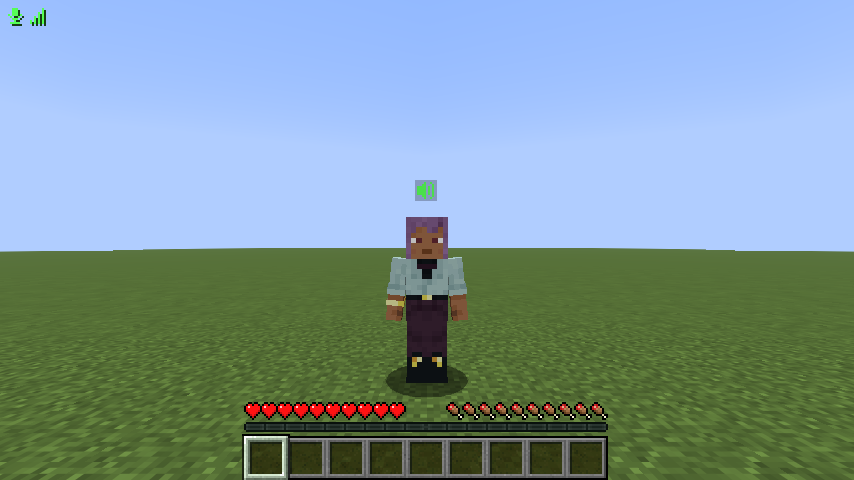
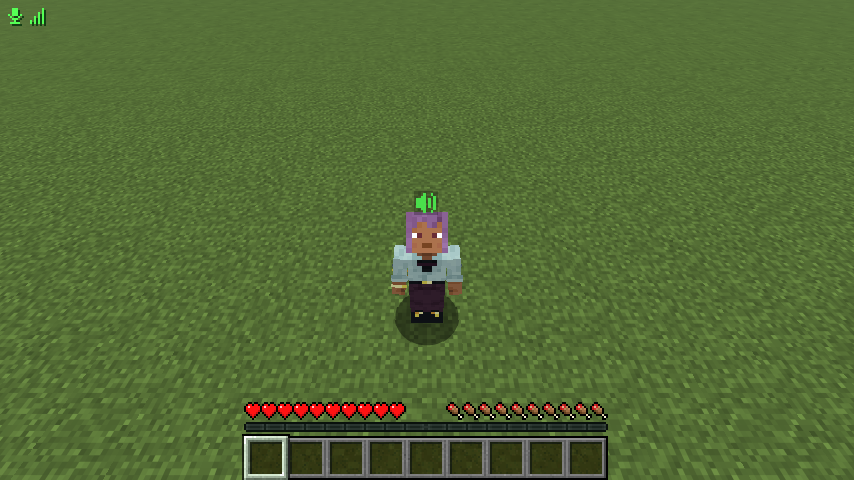
Keep the horizon out of the talking-indicator screenshot
On CI fewer distant chunks had loaded when the screenshot was taken, so
the edge of the terrain differed from a local run by 10,000 pixels. The
camera now looks down at the player from above, onto grass only.

Part of #37

diff --git a/mod/src/gametest/java/io/github/desocketed/yakvc/gametest/YakVcClientGameTest.java b/mod/src/gametest/java/io/github/desocketed/yakvc/gametest/YakVcClientGameTest.java
@@ -89,13 +89,20 @@ public class YakVcClientGameTest implements FabricClientGameTest {
 			context.getInput().holdKey(pushToTalk);
 			context.waitFor(mc -> feeder.talking().contains(me));
 			hudScreenshot(context, "hud-talking");
-			// In third person the speaker shows over the player's own head.
-			context.runOnClient(mc -> mc.options.setCameraType(CameraType.THIRD_PERSON_FRONT));
+			// In third person the speaker shows over the player's own head. Looking up puts the camera above,
+			// looking down at grass only: how far the terrain reaches depends on how many chunks have loaded.
+			context.runOnClient(mc -> {
+				mc.player.setXRot(-45);
+				mc.options.setCameraType(CameraType.THIRD_PERSON_FRONT);
+			});
 			context.waitTicks(2);
 			// The arms sway with the player's age in ticks.
 			context.runOnClient(mc -> mc.player.tickCount = 0);
 			context.takeScreenshot(TestScreenshotOptions.of("talking-indicator").disableCounterPrefix());
-			context.runOnClient(mc -> mc.options.setCameraType(CameraType.FIRST_PERSON));
+			context.runOnClient(mc -> {
+				mc.player.setXRot(0);
+				mc.options.setCameraType(CameraType.FIRST_PERSON);
+			});
 			context.getInput().releaseKey(pushToTalk);
 			context.waitFor(mc -> !feeder.talking().contains(me));
 
